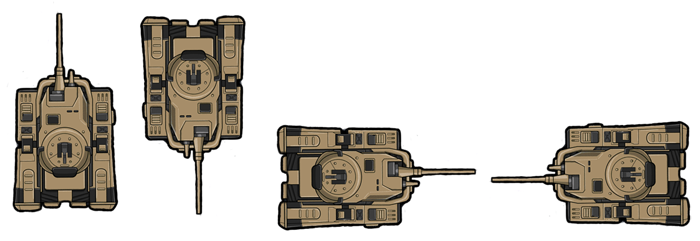
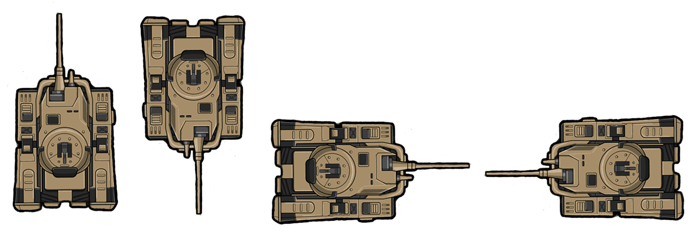
realized map + Engine revisions

Changed region(s): [[0.36, 0.4647, 0.99, 0.9585]]

diff --git a/GameTanks/TestUnitController.cpp b/GameTanks/TestUnitController.cpp
@@ -64,29 +64,28 @@ void Unit::CreateMoveUnit()
 		speed_y_ = -0.1f;
 		//unitSprite.move(0, -1);
 		//change direction of the sprite picture to UP
-		//unitSprite.setTextureRect(IntRect(0, 0, 124, 233)); 
+		unitSprite.setTextureRect(IntRect(0, 0, 124, 233)); 
 	}
 	if (pressed_Left_) {
-		//speed_x_ = -0.1f;
-		unitSprite.rotate(rotation_x += 1);
+		speed_x_ = -0.1f;
+		//unitSprite.rotate(rotation_x += 1);
 		//change direction of the sprite picture to LEFT
-		//unitSprite.setTextureRect(IntRect(476, 112, 224, 114)); 
+		unitSprite.setTextureRect(IntRect(476, 112, 224, 116)); 
 	}
 	if (pressed_Right_) {
-		
-		//speed_x_ = 0.1f;
-		unitSprite.rotate(rotation_x -= 1);
+		speed_x_ = 0.1f;
+		//unitSprite.rotate(rotation_x -= 1);
 		//change direction of the sprite picture to RIGTH
-		//unitSprite.setTextureRect(IntRect(250, 112, 224, 114)); 
+		unitSprite.setTextureRect(IntRect(250, 112, 224, 116)); 
 	}
 	if (pressed_Down_) {
 		speed_y_ = 0.1f;
 		//unitSprite.move(0, 1);
 		//change direction of the sprite picture to DOWN
-		//unitSprite.setTextureRect(IntRect(125, 0, 124, 233));
+		unitSprite.setTextureRect(IntRect(125, 0, 124, 233));
 	}
-	unitSprite.setOrigin(unitSprite.getTextureRect().width / 2, unitSprite.getTextureRect().height / 2);
-	unitSprite.setRotation(rotation_x);
+	//unitSprite.setOrigin(unitSprite.getTextureRect().width / 2, unitSprite.getTextureRect().height / 2);
+	//unitSprite.setRotation(rotation_x);
 	//unitSprite.setPosition(unitRectangle.left / 2, unitRectangle.top / 2);
 }
 
@@ -95,7 +94,7 @@ void Unit::ControlMoveUnit(float& game_time)
 	//change position taking into speed and playing time
 	unitRectangle.left += speed_x_ * game_time; 
 	unitRectangle.top += speed_y_ * game_time;
-	//unitSprite.setPosition(unitRectangle.left, unitRectangle.top); //fixed position unit
+	unitSprite.setPosition(unitRectangle.left, unitRectangle.top);
 	speed_x_ = 0;
 	speed_y_ = 0;
 }

diff --git a/GameTanks/visible_object.cpp b/GameTanks/visible_object.cpp
@@ -121,10 +121,16 @@ sf::Vector2f VisibleObject::GetCoordinateCentre()
 { return Sprite_object_.getPosition(); }
 
 int VisibleObject::GetHeightSprite()
-{ return Texture_object_.getSize().y / frame_count_y_; }
+{
+	//avoid the division by zero (if frame = 0 we will receive critical error)
+	if(frame_count_y_) return Texture_object_.getSize().y / frame_count_y_;
+}
 
 int VisibleObject::GetWidthSprite()
-{ return Texture_object_.getSize().x / frame_count_x_; }
+{ 
+	//avoid the division by zero (if frame = 0 we will receive critical error)
+	if(frame_count_x_) return Texture_object_.getSize().x / frame_count_x_;
+}
 
 float VisibleObject::GetVectorX()
 { return vector_rotate_x_; }

diff --git a/GameTanks/Levels.h b/GameTanks/Levels.h
@@ -25,15 +25,15 @@ private:
 	TankObject Player_server;
 	TankObject Player_client;
 
-	sf::Texture Texture_background_;
-	sf::Sprite Sprite_background_;
-	sf::Texture Texture_border_;
-	sf::Sprite Sprite_border_;
+	Texture Texture_background_;
+	Sprite Sprite_background_;
+	Texture Texture_border_;
+	Sprite Sprite_border_;
 
 	bool CalculateCollisionOnLevel(); 
 public:
 	BaseLevel();
-	void Draw(sf::RenderWindow& window); ////////////////
+	void Draw(RenderWindow& window); ////////////////
 	
 	void AddUiObject(UiObject Ui_object);
 	void AddStatisObject(GameObject Static_objects);

diff --git a/GameTanks/base_level.cpp b/GameTanks/base_level.cpp
@@ -7,11 +7,17 @@ bool BaseLevel::CalculateCollisionOnLevel()
 
 BaseLevel::BaseLevel()
 {
+	/* Initialization tile map: */
+	Texture_background_.loadFromFile("Data/Map.png");
+	Sprite_background_.setTexture(Texture_background_);
+	Sprite_background_.setPosition(0, 0);
+
 	Player_client = TankObject(1, sf::Vector2f(0, 0), sf::Vector2f(0, 0), "1", 1, 1, 1, 1, 1, 0, 0, 0);
 }
 
-void BaseLevel::Draw(sf::RenderWindow& window)
+void BaseLevel::Draw(RenderWindow& window)
 {
+	window.draw(Sprite_background_);
 }
 
 void BaseLevel::AddUiObject(UiObject Ui_object)

diff --git a/GameTanks/Engine.cpp b/GameTanks/Engine.cpp
@@ -34,13 +34,8 @@ int Engine::Start()
         EngineInpute();
         EngineUpdate(game_time);
         LanGame();
-        EngineDraw();
+        EngineDraw(game_time);
 
-        Main_window.clear(Color::Black);
-
-        TestUnit.UnitUpdateWithDrawWithInput(Main_window, game_time); /*test*/
-
-        Main_window.display(); //end the current frame
         return 0;
     }
     return 1;

diff --git a/GameTanks/Engine.h b/GameTanks/Engine.h
@@ -22,7 +22,7 @@ class Engine {
 private:
 	Clock Game_clock;
 	RenderWindow Main_window; // this object is responsible for all render
-	BaseLevel *Point_level;
+	BaseLevel Point_level;
 	Font Main_font;
 
 	bool im_server;
@@ -35,7 +35,7 @@ private:
 
 	void EngineInpute();
 	void EngineUpdate(float& timer);
-	void EngineDraw();
+	void EngineDraw(float& timer);
 
 	bool LanGame();
 

diff --git a/GameTanks/engine_input.cpp b/GameTanks/engine_input.cpp
@@ -3,8 +3,8 @@
 void Engine::EngineInpute()
 {
     if (im_server) {
-        //Point_level->InputKeyboard(bool, key);
-        //Point_level->InputMouse(event_type, mouse_position);
-        Point_level->InputEnemy();
+        //Point_level.InputKeyboard(bool, key);
+        //Point_level.InputMouse(event_type, mouse_position);
+        Point_level.InputEnemy();
     }
 }

diff --git a/GameTanks/engine_draw.cpp b/GameTanks/engine_draw.cpp
@@ -1,6 +1,11 @@
 #include "engine.h"
 
-void Engine::EngineDraw()
+void Engine::EngineDraw(float& timer)
 {
-	Point_level->Draw(Main_window);
+	Main_window.clear(Color::Black);
+	Point_level.Draw(Main_window);
+
+	TestUnit.UnitUpdateWithDrawWithInput(Main_window, timer); /*test*/
+
+	Main_window.display(); //end the current frame
 }

diff --git a/GameTanks/engine_update.cpp b/GameTanks/engine_update.cpp
@@ -2,5 +2,5 @@
 
 void Engine::EngineUpdate(float& game_time)
 {
-	if (im_server) Point_level->UpdateState(game_time);
+	if (im_server) Point_level.UpdateState(game_time);
 }
